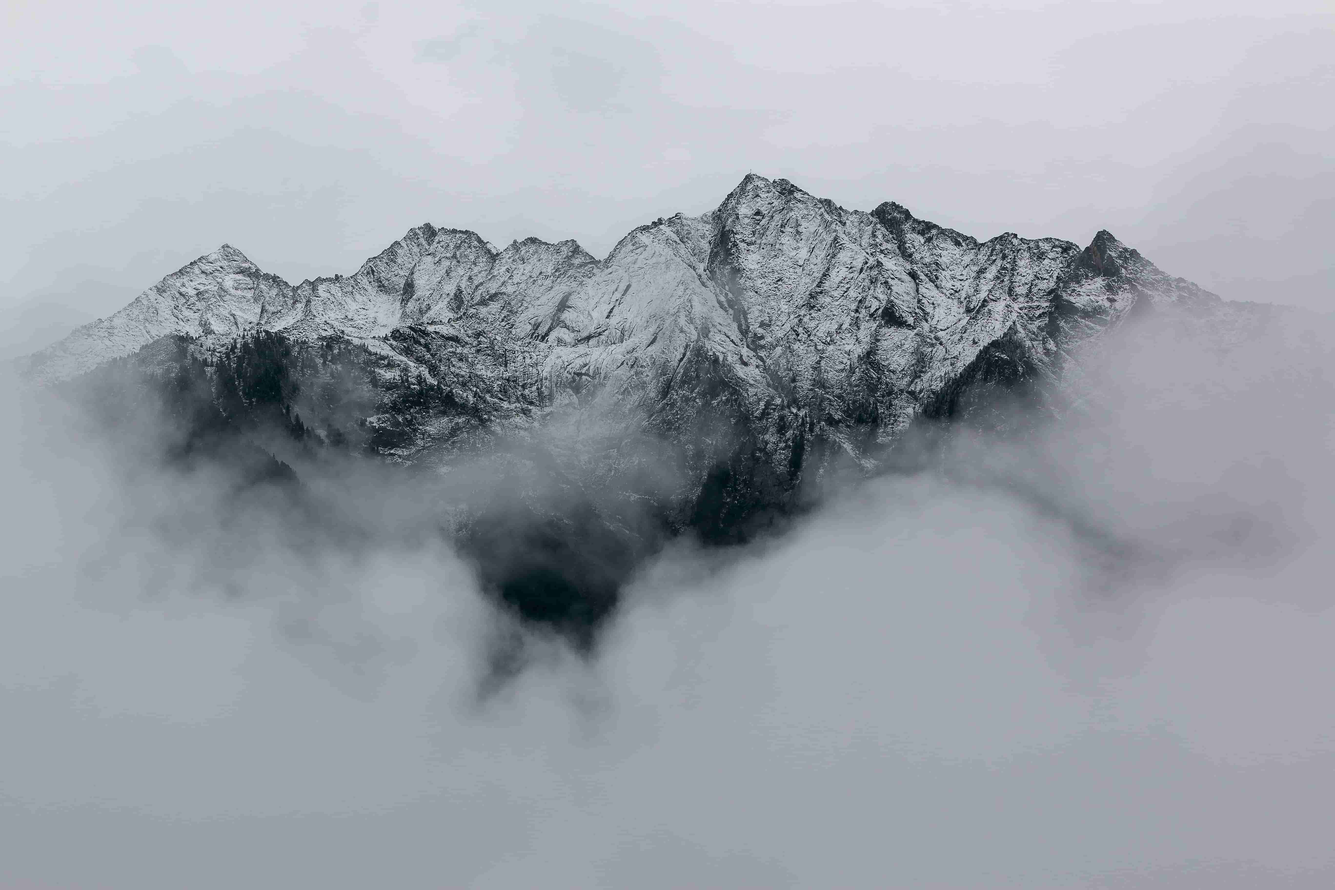
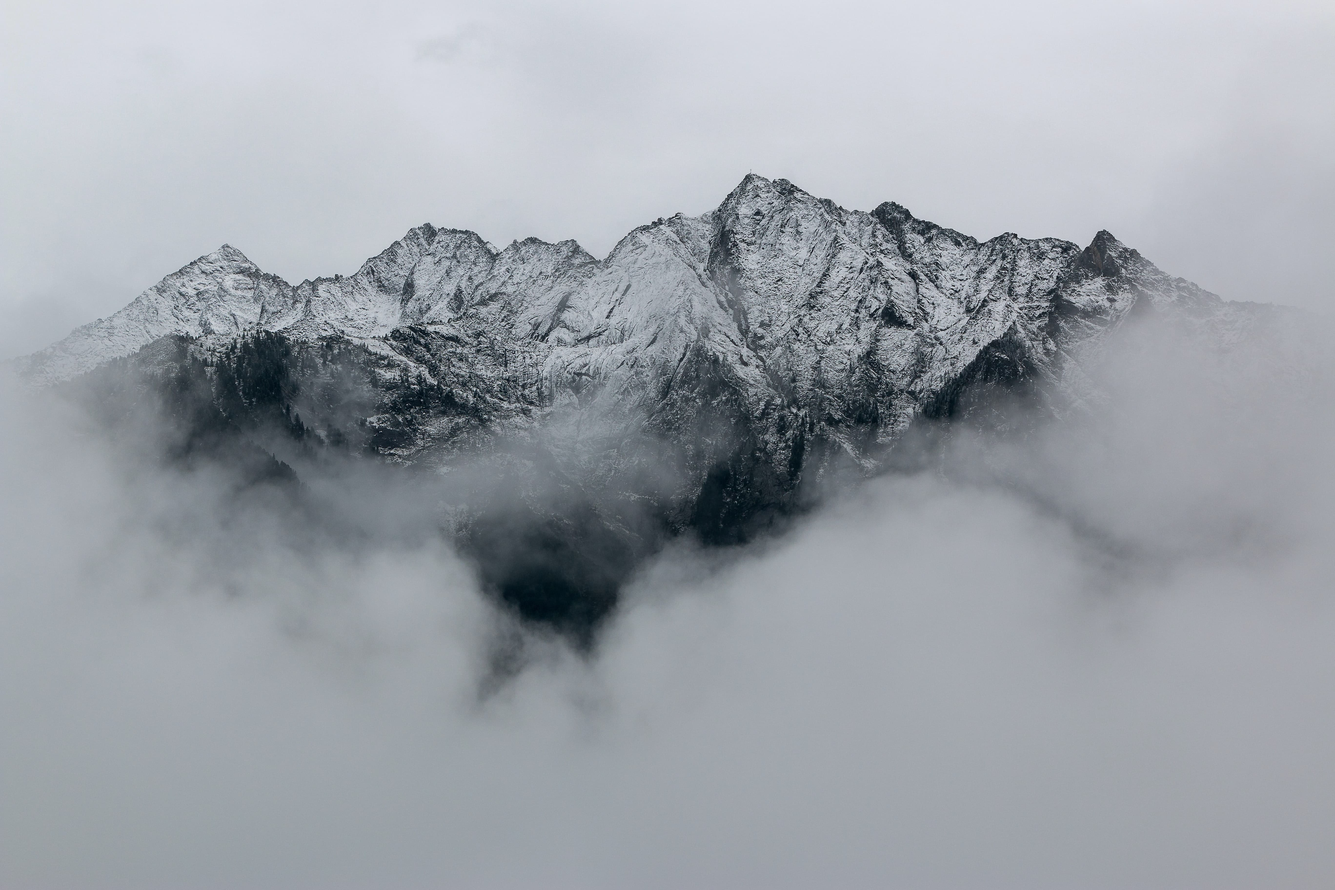
Site updated: 2020-07-20 01:43:16

Changed region(s): [[0.125, 0.1875, 0.8438, 0.5312]]

diff --git a/archives/2020/07/index.html b/archives/2020/07/index.html
@@ -42,7 +42,7 @@
 
 
 <body>
-  <header style="height: 60vh;">
+  <header style="height: 80vh;">
     <nav id="navbar" class="navbar fixed-top  navbar-expand-lg navbar-dark scrolling-navbar">
   <div class="container">
     <a class="navbar-brand"
@@ -180,7 +180,7 @@
 </nav>
 
     <div class="view intro-2" id="background" parallax=true
-         style="background: url('/img/page13.jpg') no-repeat center center;
+         style="background: url('/img/page14.jpg') no-repeat center center;
            background-size: cover;">
       <div class="full-bg-img">
         <div class="mask flex-center" style="background-color: rgba(0, 0, 0, 0.3)">

diff --git a/archives/2020/index.html b/archives/2020/index.html
@@ -42,7 +42,7 @@
 
 
 <body>
-  <header style="height: 60vh;">
+  <header style="height: 80vh;">
     <nav id="navbar" class="navbar fixed-top  navbar-expand-lg navbar-dark scrolling-navbar">
   <div class="container">
     <a class="navbar-brand"
@@ -180,7 +180,7 @@
 </nav>
 
     <div class="view intro-2" id="background" parallax=true
-         style="background: url('/img/page13.jpg') no-repeat center center;
+         style="background: url('/img/page14.jpg') no-repeat center center;
            background-size: cover;">
       <div class="full-bg-img">
         <div class="mask flex-center" style="background-color: rgba(0, 0, 0, 0.3)">

diff --git a/archives/index.html b/archives/index.html
@@ -42,7 +42,7 @@
 
 
 <body>
-  <header style="height: 60vh;">
+  <header style="height: 80vh;">
     <nav id="navbar" class="navbar fixed-top  navbar-expand-lg navbar-dark scrolling-navbar">
   <div class="container">
     <a class="navbar-brand"
@@ -180,7 +180,7 @@
 </nav>
 
     <div class="view intro-2" id="background" parallax=true
-         style="background: url('/img/page13.jpg') no-repeat center center;
+         style="background: url('/img/page14.jpg') no-repeat center center;
            background-size: cover;">
       <div class="full-bg-img">
         <div class="mask flex-center" style="background-color: rgba(0, 0, 0, 0.3)">

diff --git a/categories/index.html b/categories/index.html
@@ -42,7 +42,7 @@
 
 
 <body>
-  <header style="height: 60vh;">
+  <header style="height: 80vh;">
     <nav id="navbar" class="navbar fixed-top  navbar-expand-lg navbar-dark scrolling-navbar">
   <div class="container">
     <a class="navbar-brand"
@@ -180,7 +180,7 @@
 </nav>
 
     <div class="view intro-2" id="background" parallax=true
-         style="background: url('/img/page10.jpg') no-repeat center center;
+         style="background: url('/img/page4.jpg') no-repeat center center;
            background-size: cover;">
       <div class="full-bg-img">
         <div class="mask flex-center" style="background-color: rgba(0, 0, 0, 0.3)">

diff --git a/images/index.html b/images/index.html
@@ -189,7 +189,7 @@
 </nav>
 
     <div class="view intro-2" id="background" parallax=true
-         style="background: url('/img/page12.jpg') no-repeat center center;
+         style="background: url('/img/page10.jpg') no-repeat center center;
            background-size: cover;">
       <div class="full-bg-img">
         <div class="mask flex-center" style="background-color: rgba(0, 0, 0, 0.3)">

diff --git a/tags/index.html b/tags/index.html
@@ -180,7 +180,7 @@
 </nav>
 
     <div class="view intro-2" id="background" parallax=true
-         style="background: url('/img/page5.jpg') no-repeat center center;
+         style="background: url('/img/page15.jpg') no-repeat center center;
            background-size: cover;">
       <div class="full-bg-img">
         <div class="mask flex-center" style="background-color: rgba(0, 0, 0, 0.3)">
